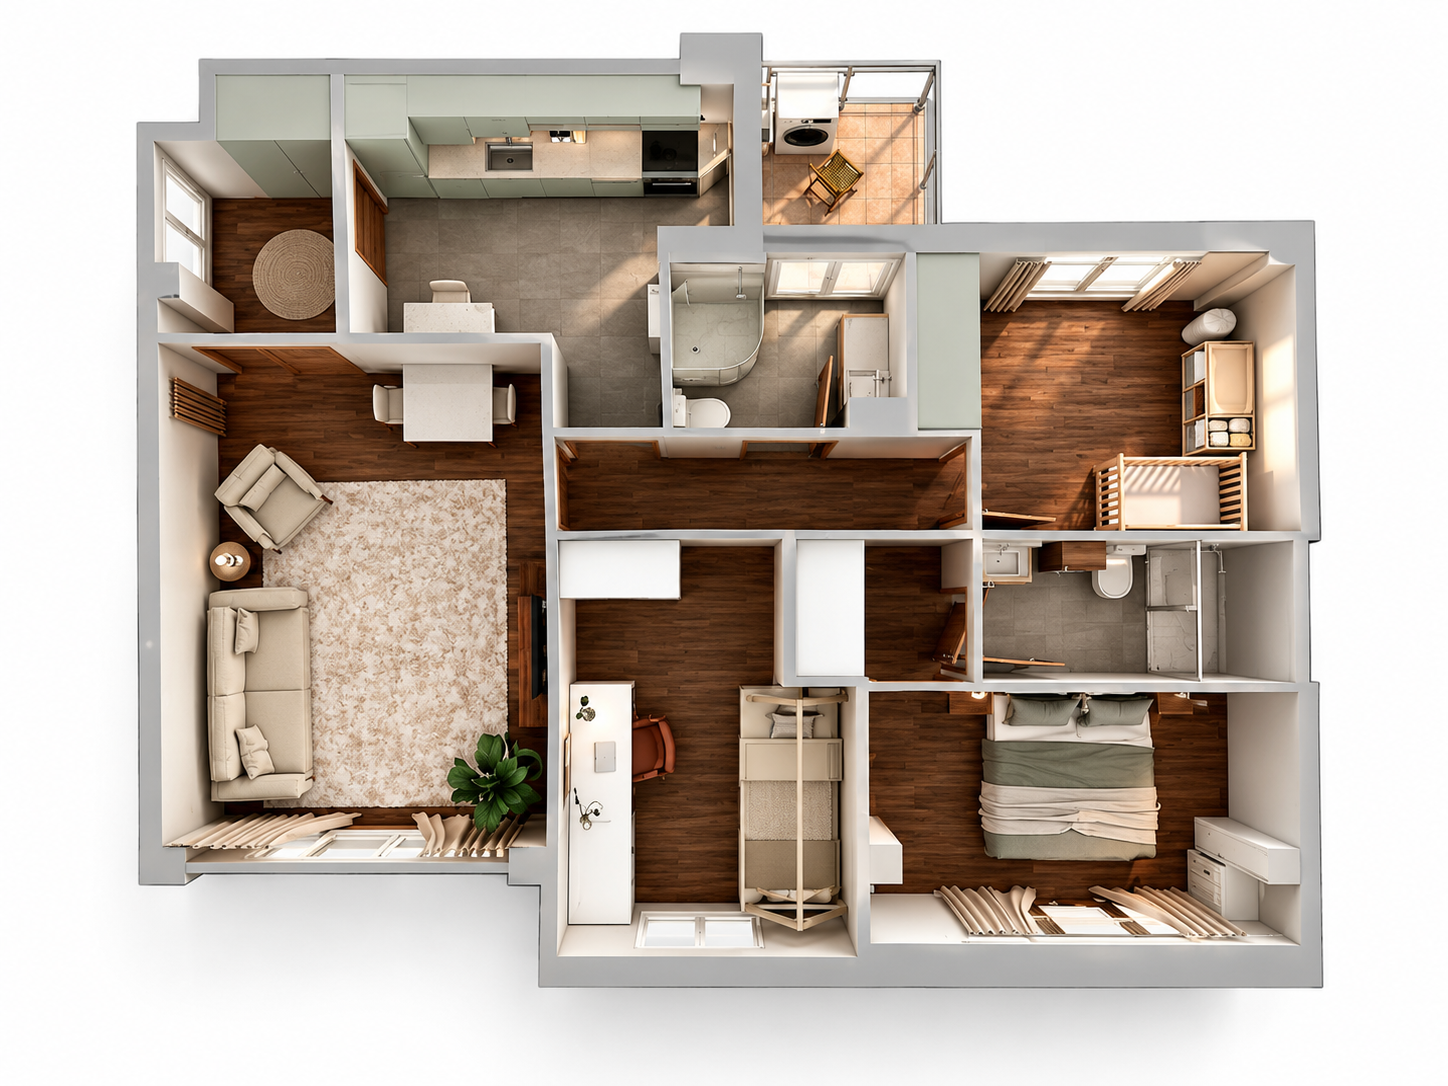
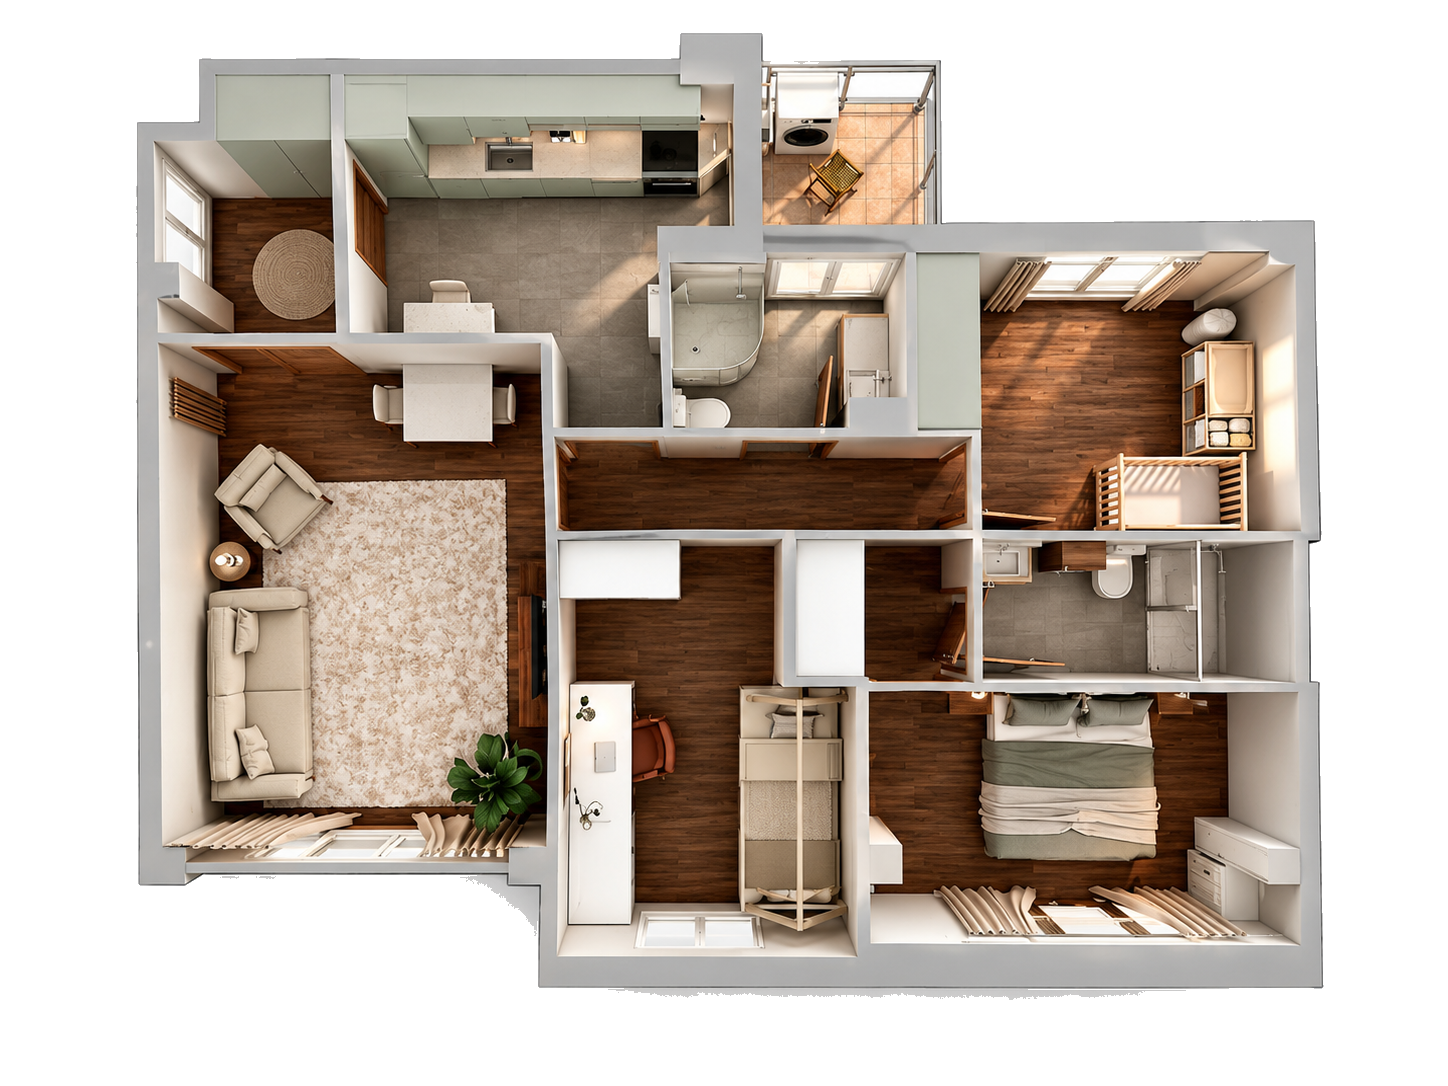
Home tasks V10.0.7

Changed region(s): [[0.3729, 0.9116, 0.8391, 0.9724], [0.1243, 0.7901, 0.3729, 0.9116]]

diff --git a/index.html b/index.html
@@ -13,7 +13,7 @@
   <link rel="icon" href="icons/icon-192.png" />
   <link rel="apple-touch-icon" href="icons/icon-192.png" />
   <link rel="stylesheet" href="styles.css" />
-  <title>HomeTasks V10.0.6</title>
+  <title>HomeTasks V10.0.7</title>
 </head>
 <body>
   <div id="app" class="app-shell">
@@ -22,7 +22,7 @@
         <div class="app-mark" aria-hidden="true">⌂</div>
         <div>
           <h1>HomeTasks</h1>
-          <p class="subtitle">V10.0.6 · mapa móvil más ajustado y pie compacto</p>
+          <p class="subtitle">V10.0.7 · mapa centrado y fondo unificado</p>
         </div>
       </div>
       <div class="top-actions">
@@ -369,11 +369,11 @@
           </article>
 
           <article class="card settings-card">
-            <h3>Estado de V10.0.6</h3>
+            <h3>Estado de V10.0.7</h3>
             <div class="setting-row"><span>Datos</span><strong>IndexedDB local</strong></div>
             <div class="setting-row"><span>Modo offline</span><strong id="offlineReady">Comprobando...</strong></div>
             <div class="setting-row"><span>Sincronización</span><strong id="syncStateSummary" class="muted">Sin configurar</strong></div>
-            <div class="setting-row"><span>Versión</span><strong>10.0.6</strong></div>
+            <div class="setting-row"><span>Versión</span><strong>10.0.7</strong></div>
           </article>
 
           <article id="notificationSettingsCard" class="card settings-card notification-card">
@@ -513,14 +513,14 @@
 
           <article class="card settings-card">
             <h3>Datos locales</h3>
-            <p>Restablece HomeTasks a los datos iniciales de V10.0.6. Antes se crea una copia local de seguridad. Se eliminaran tareas, rutinas, personas e historico de este dispositivo.</p>
-            <button id="resetButton" class="secondary-button danger-button" type="button">Restablecer V10.0.6</button>
+            <p>Restablece HomeTasks a los datos iniciales de V10.0.7. Antes se crea una copia local de seguridad. Se eliminaran tareas, rutinas, personas e historico de este dispositivo.</p>
+            <button id="resetButton" class="secondary-button danger-button" type="button">Restablecer V10.0.7</button>
           </article>
 
           <article class="card settings-card">
             <h3>Actualización de la app</h3>
             <p>Fuerza la descarga del código publicado más reciente sin borrar IndexedDB, la URL de Apps Script, la clave de la casa ni tus preferencias.</p>
-            <div class="setting-row"><span>Versión instalada</span><strong id="appVersionDisplay">10.0.6</strong></div>
+            <div class="setting-row"><span>Versión instalada</span><strong id="appVersionDisplay">10.0.7</strong></div>
             <div class="setting-row"><span>Última actualización forzada</span><strong id="lastForcedUpdate">Nunca</strong></div>
             <button id="forceAppUpdateButton" class="secondary-button" type="button">Forzar actualización de la aplicación</button>
           </article>

diff --git a/app.js b/app.js
@@ -1,6 +1,6 @@
 import { getAll, put, putMany, remove, clearStore, resetDatabase } from './db.js';
 
-const APP_VERSION = '10.0.6';
+const APP_VERSION = '10.0.7';
 const SYNCABLE_STORES = ['rooms', 'users', 'tasks', 'history', 'templates'];
 const LS_SYNC_PROVIDER = 'hometasks-sync-provider';
 const LS_SYNC_ENDPOINT = 'hometasks-appsscript-endpoint';
@@ -715,7 +715,7 @@ function renderFloorPlan() {
     return floorRoomCardMarkup(room, layout, stats);
   }).join('');
 
-  const crop = { x: 110, y: 34, width: 1120, height: 905 };
+  const crop = { x: 55, y: 20, width: 1280, height: 955 };
 
   els.floorPlan.innerHTML = `
     <svg viewBox="${crop.x} ${crop.y} ${crop.width} ${crop.height}" role="img" aria-label="Plano interactivo de la vivienda">
@@ -3713,7 +3713,7 @@ function setupEvents() {
   els.forceAppUpdateButton?.addEventListener('click', forceAppUpdate);
 
   els.resetButton.addEventListener('click', async () => {
-    if (!confirm('¿Restablecer todos los datos locales de HomeTasks V10.0.6 en este dispositivo? Se conservará una copia de seguridad previa.')) return;
+    if (!confirm('¿Restablecer todos los datos locales de HomeTasks V10.0.7 en este dispositivo? Se conservará una copia de seguridad previa.')) return;
     await createLocalCheckpoint('before-reset', { quiet: true });
     await resetDatabase();
     await ensureV1Data();
@@ -3730,7 +3730,7 @@ function setupEvents() {
     els.statusFilter.value = 'pending';
     els.assigneeFilter.value = 'all';
     renderAll();
-    showToast('V10.0.6 restablecida');
+    showToast('V10.0.7 restablecida');
   });
 
   window.addEventListener('online', updateConnection);

diff --git a/styles.css b/styles.css
@@ -1337,3 +1337,50 @@ html.tablet-ui .today-map-card .floor-plan { padding: 4px; }
     font-size: 8px;
   }
 }
+
+
+/* V10.0.7 - fondo unificado, plano centrado y recorte más suave */
+.today-map-card,
+.today-map-card .floor-plan,
+.floor-plan-realistic,
+.today-map-meta {
+  background: #ffffff !important;
+}
+.today-map-card {
+  border-color: color-mix(in srgb, #94a3b8 32%, transparent);
+}
+.floor-plan-realistic {
+  display: flex;
+  align-items: center;
+  justify-content: center;
+  box-shadow: inset 0 0 0 1px rgba(126,145,166,.16), 0 10px 26px rgba(31,50,68,.08);
+}
+.floor-plan-realistic svg,
+.today-map-card .floor-plan-realistic svg,
+html.tablet-ui .today-map-card .floor-plan-realistic svg {
+  display: block;
+  margin-inline: auto !important;
+  transform: none !important;
+}
+:root[data-theme="dark"] .today-map-card,
+:root[data-theme="dark"] .today-map-card .floor-plan,
+:root[data-theme="dark"] .floor-plan-realistic,
+:root[data-theme="dark"] .today-map-meta {
+  background: #10283d !important;
+  border-color: #29445c;
+}
+:root[data-theme="dark"] .floor-plan-realistic {
+  box-shadow: inset 0 0 0 1px rgba(119,156,188,.18), 0 12px 28px rgba(0,0,0,.18);
+}
+:root[data-theme="dark"] .today-map-card .today-card-heading h3,
+:root[data-theme="dark"] .today-map-card .today-card-heading p,
+:root[data-theme="dark"] .today-map-caption,
+:root[data-theme="dark"] .today-map-legend,
+:root[data-theme="dark"] .map-count-legend {
+  color: #d9e6f2;
+}
+@media (max-width: 700px) {
+  .today-map-card { padding: 7px; }
+  .today-map-card .floor-plan,
+  .floor-plan-realistic { padding: 3px !important; }
+}

diff --git a/service-worker.js b/service-worker.js
@@ -1,4 +1,4 @@
-const CACHE_NAME = 'hometasks-v10-006';
+const CACHE_NAME = 'hometasks-v10-007';
 const APP_SHELL = [
   './',
   './index.html',
